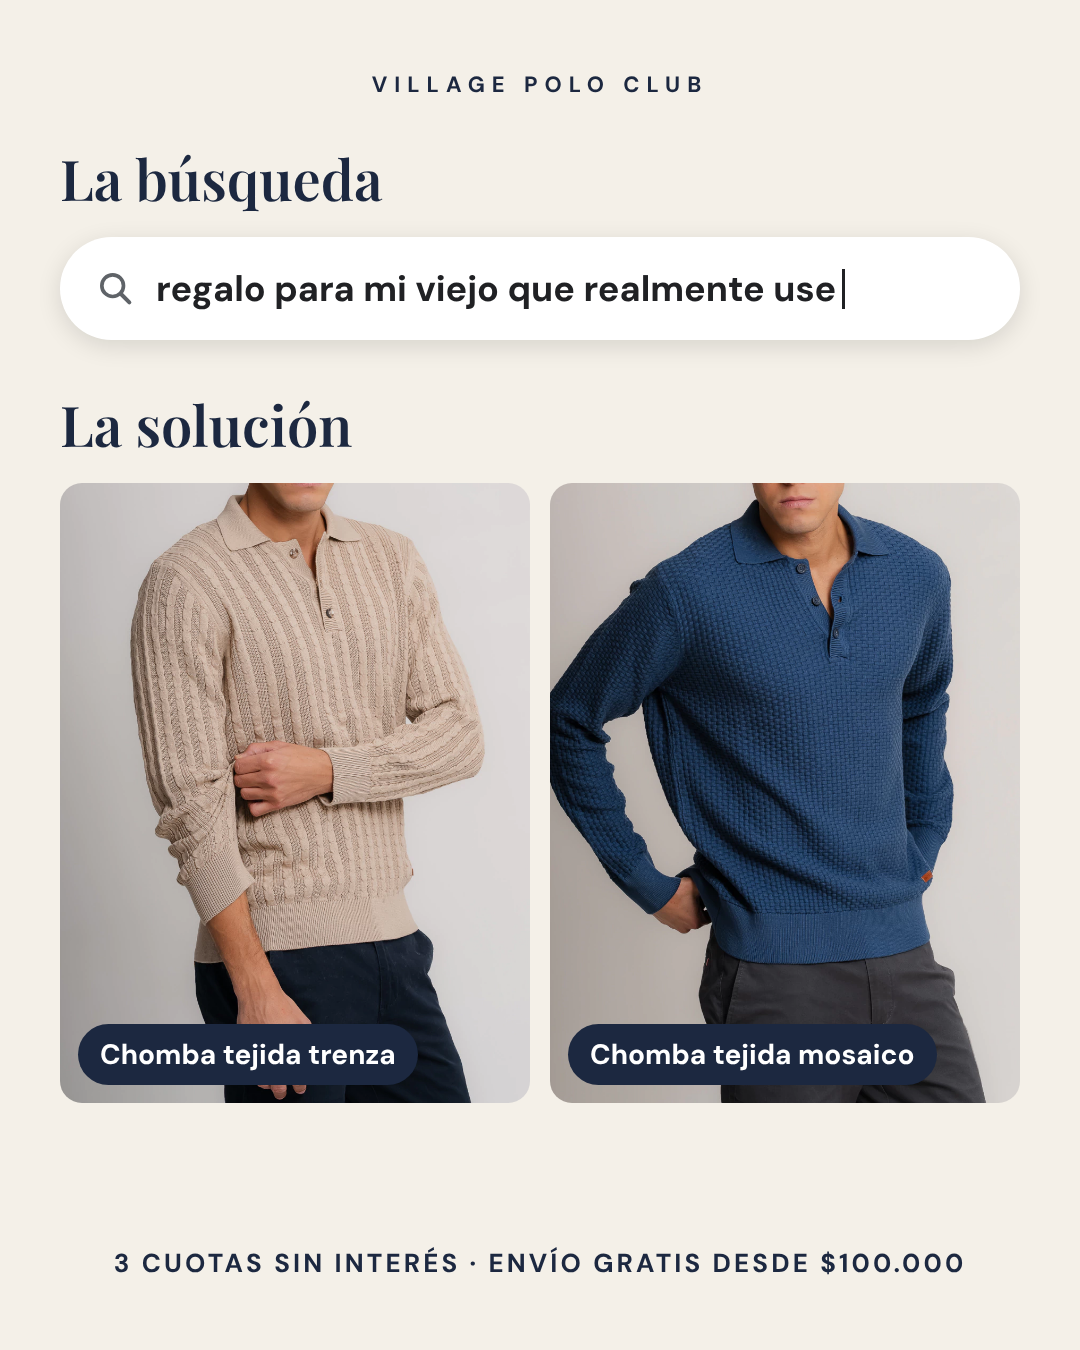
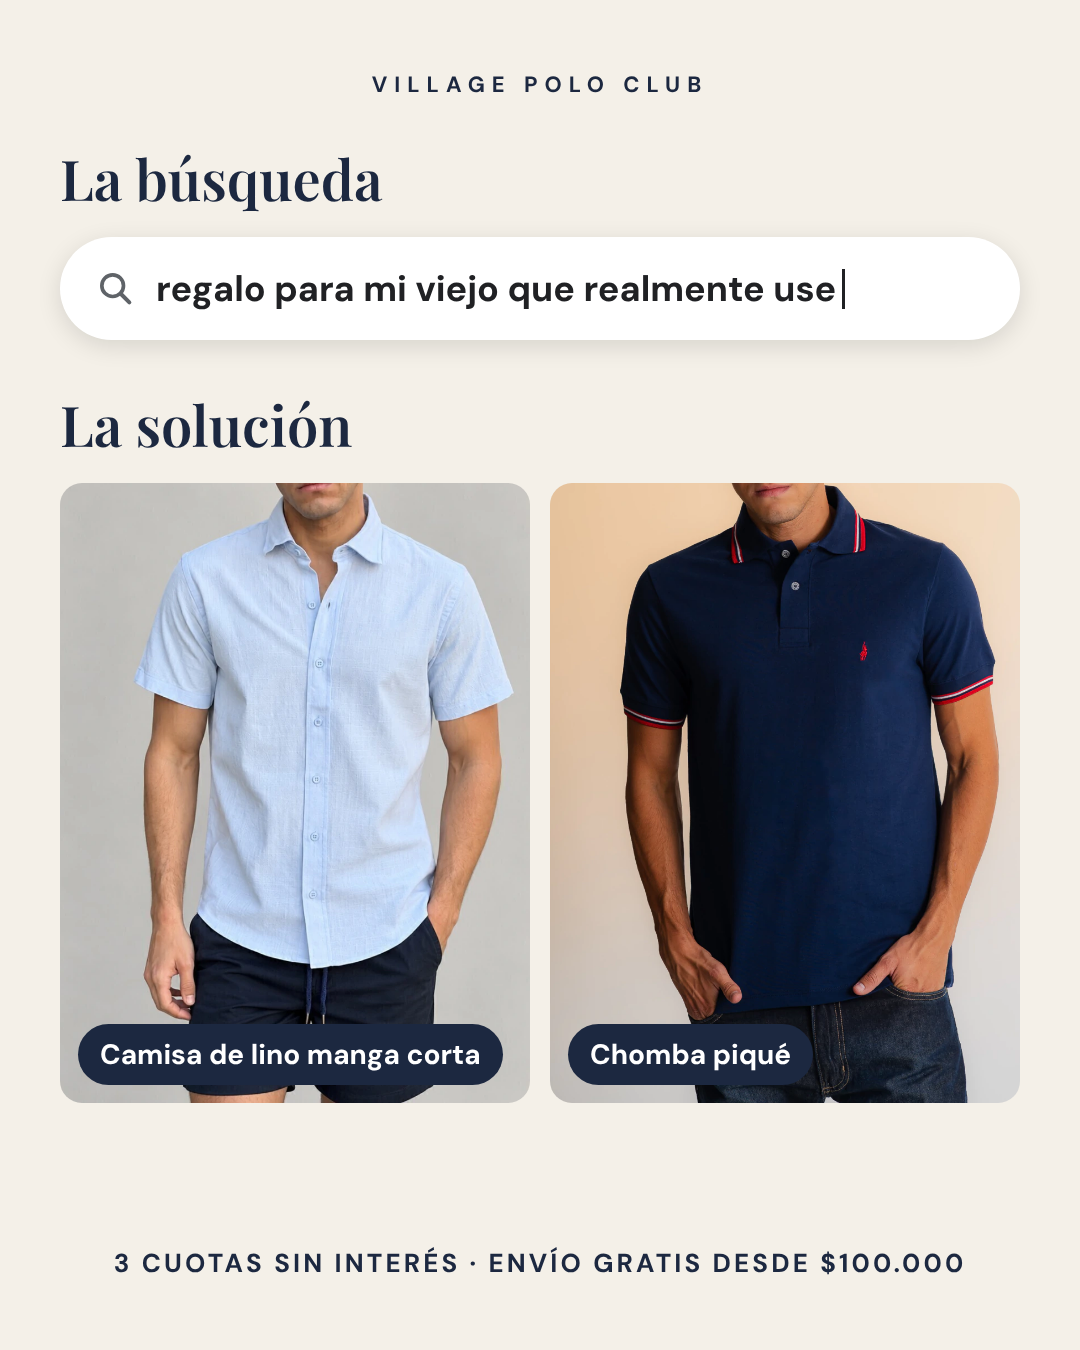
Village: R2d con colección nueva y Packs de chombas con 2 fotos
Claude-Session: https://claude.ai/code/session_01BwB1NJ45564dBMrvfqcTE9

Changed region(s): [[0.0306, 0.3422, 0.9472, 0.84]]

diff --git a/village-polo-club/placas/testeo-24-11/fuente/gen.py b/village-polo-club/placas/testeo-24-11/fuente/gen.py
@@ -78,7 +78,7 @@ def grid(fmt,imgs,eyebrow,h,sub,crops):
     W,H=(1080,1350) if fmt=='feed' else (1080,1920)
     top=70 if fmt=='feed' else 250
     gh=680 if fmt=='feed' else 840
-    n=len(imgs);cols=2 if n==4 else 3
+    n=len(imgs);cols=2 if n in (2,4) else 3
     cells=''.join(f'<div class="box"><img class="ph" src="{i}" style="object-view-box:{c}"></div>' for i,c in zip(imgs,crops))
     body=f'''<div style="position:absolute;top:{top}px;left:0;right:0" class="brand">VILLAGE POLO CLUB</div>
 <div style="position:absolute;top:{top+60}px;left:60px;right:60px;display:grid;grid-template-columns:repeat({cols},1fr);gap:14px;height:{gh}px">{cells}</div>
@@ -92,11 +92,11 @@ C1='inset(22% 6% 0 6%)'
 P=[]
 for f in ('feed','story'):
     P+= [(f'R1-problemas-solucion-{f}',r1(f)),(f'R2-busqueda-solucion-{f}',r2(f)),(f'R3-comparacion-{f}',r3(f)),
-    (f'P1-packs-chombas-{f}',grid(f,['chomba-jersey-azul-1.webp','chomba-jersey-beige-1.webp','chomba-jersey-blanca-1.webp','chomba-jersey-negra-1.webp'],'Packs','Packs de chombas','Una para la semana, otra para el finde. Combiná colores y talles.',[C1]*4)),
+    (f'P1-packs-chombas-{f}',grid(f,['chomba-jersey-azul-1.webp','chomba-jersey-beige-1.webp'],'Packs','Packs de chombas','Una para la semana, otra para el finde. Combiná colores y talles.',['inset(27% 5% 0 5%)']*2)),
     (f'P2-pack-x3-remeras-{f}',grid(f,['pack-x3-remeras-omz80-2.webp','pack-x3-remeras-omz80-4.webp','pack-x3-remeras-omz80-3.webp'],'Pack x3','Pack x3 remeras','El básico que más usás, de a tres.',['inset(9% 0 0 0)']*3))]
 for f in ('feed','story'):
     P+=[(f'R2b-asado-{f}',r2(f,'qué ponerme para un asado con amigos','chomba-jersey-azul-1.webp','Chomba jersey','inset(22% 6% 0 6%)','bermuda-gabardina-cintura-elastica-camel-1.webp','Bermuda de gabardina','inset(0 0 0 0)')),
-        (f'R2d-regalo-viejo-{f}',r2(f,'regalo para mi viejo que realmente use','chomba-tejida-trenza-beige-1.webp','Chomba tejida trenza','inset(24% 6% 0 6%)','chomba-tejida-mosaico-azul-1.webp','Chomba tejida mosaico','inset(24% 6% 0 6%)')),
+        (f'R2d-regalo-viejo-{f}',r2(f,'regalo para mi viejo que realmente use','camisa-manga-corta-lino-algodon-celeste-cloque-1.webp','Camisa de lino manga corta','inset(20% 6% 0 6%)','chomba-pique-azul-marino-2.webp','Chomba piqué','inset(27% 6% 0 6%)')),
         (f'R2f-fin-de-ano-{f}',r2(f,'qué ponerme para la cena de fin de año','camisa-lino-algodon-blanco-1.webp','Camisa de lino','inset(22% 6% 0 6%)','pantalon-chino-lino-camel-claro-1.webp','Chino de lino','inset(0 0 0 0)'))]
 for n,h in P: open(n+'.html','w').write(h)
 print(len(P))
